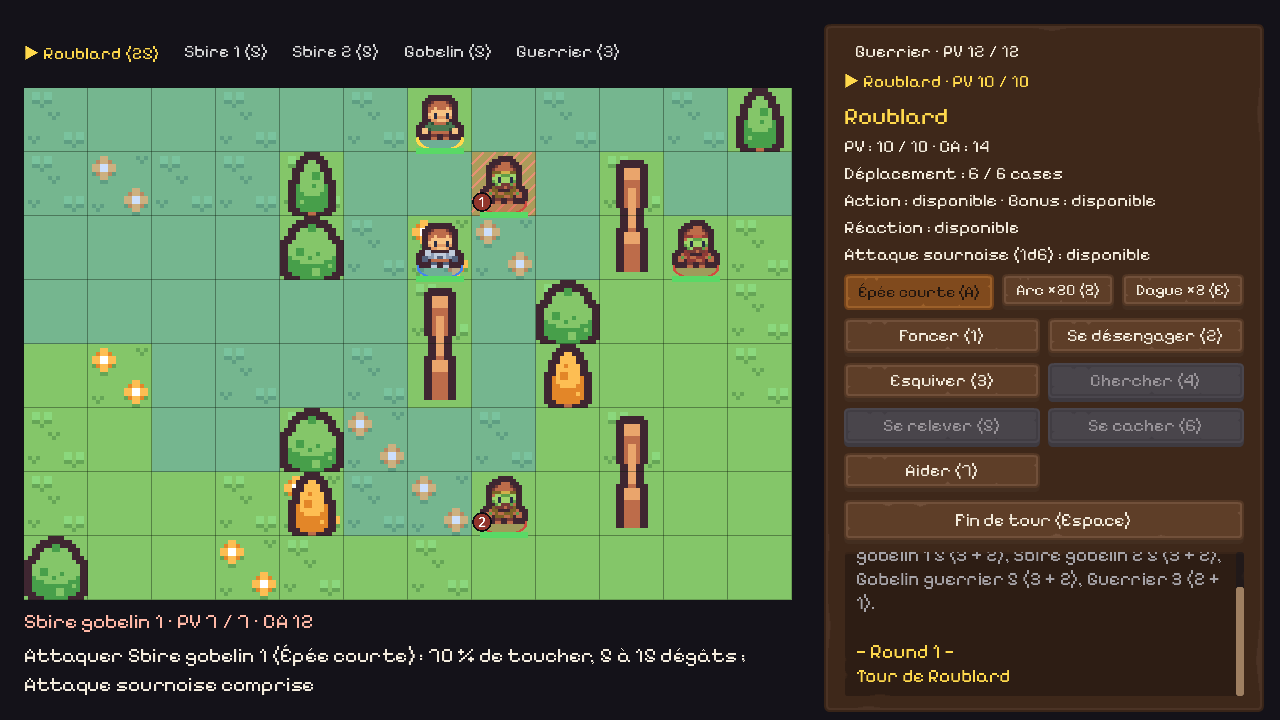
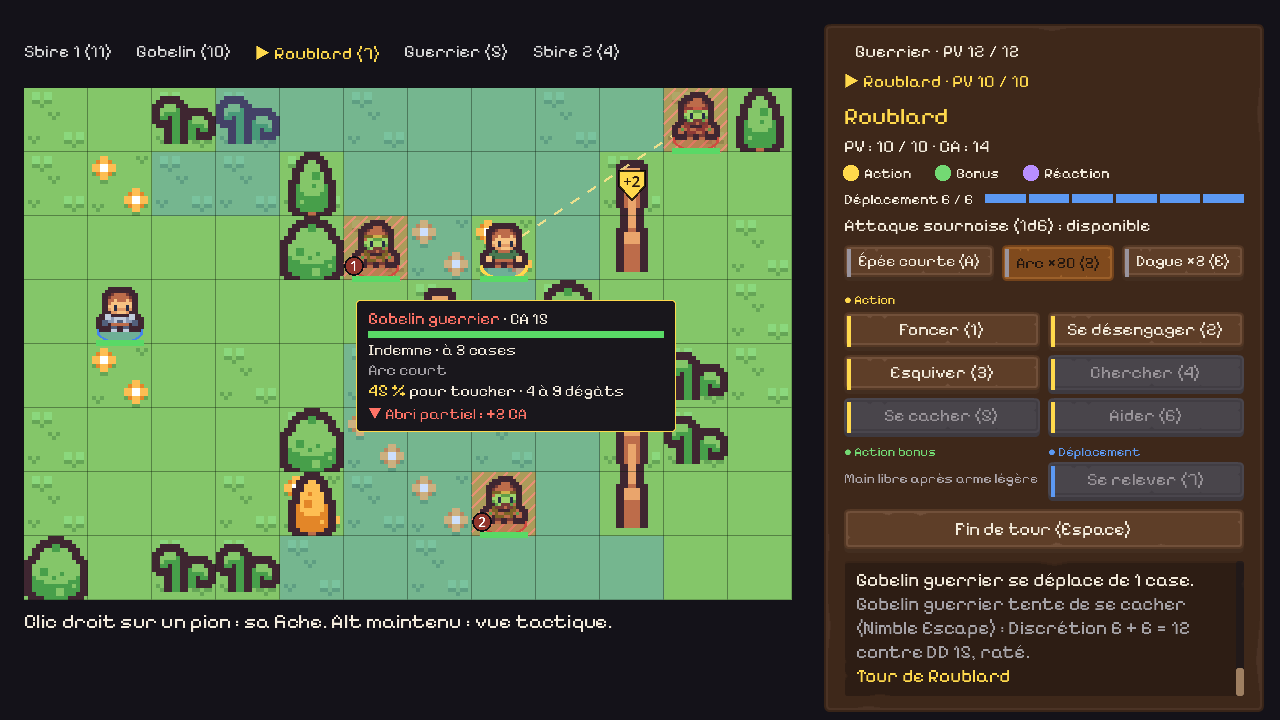
I5 : ramper, finitions et version 1.4.0
- Ramper (SRD « Crawling », « Prone ») : à terre, on se déplace en
  rampant, 2 cases par case, 3 en terrain difficile ; l'écart « Ramper »
  est retiré de docs/rules-deviations.md.
- Ligne d'aide : rappel des gestes (clic droit, Alt) pendant son tour ;
  le message du tour adverse n'est plus effacé par un survol.
- Bulle et fiche : largeur du texte connue d'avance, la hauteur suit le
  contenu dès l'ouverture (la bulle s'étirait en 1280×720).
- README : interface du combat, ramper, touches, option « PV ennemis
  exacts », nouvelles captures (visée, actions, vue tactique, fiche).
- Version 1.4.0.

Claude-Session: https://claude.ai/code/session_01FhoZrrPLkexN6g1BZVi47J

diff --git a/docs/rules-deviations.md b/docs/rules-deviations.md
@@ -24,7 +24,6 @@ Toute simplification volontaire des règles est consignée ici, avec la règle o
 | Perception passive | Le MJ s'en sert pour savoir si une créature remarque quelque chose sans chercher (10 + bonus de Perception, +5 avec l'avantage, -5 avec le désavantage). Le texte de Se cacher ne la mentionne pas. | Règle de MJ : un caché qui se déplace est remarqué sur la première case vue par un ennemi conscient dont la Perception passive atteint le total de sa Discrétion ; la suite de son trajet est vue. Aucun effet du jeu ne donne l'avantage ou le désavantage en Perception. La Perception passive du Guerrier (13) n'atteint jamais une cachette réussie (15 au moins) ; celle du Roublard (15) remarque les cachettes les moins bonnes. | S3, revu après S6 |
 | Attaquer une case à l'aveugle | On peut viser n'importe quel endroit ; si la cible n'y est pas, l'attaque rate. | Possible seulement quand un ennemi est caché : clic sur sa dernière position connue, ou Maj + clic sur une case. Avec les règles de MJ ci-dessus, un caché n'est jamais en vue au tour de ses ennemis : l'attaque à l'aveugle servira avec le brouillard ou les abris partiels. | S3 |
 | Heurter un ennemi caché | On ne peut pas traverser l'espace d'une créature hostile de même taille, ni finir son déplacement dans celui d'une autre créature. Rien ne dit ce qui arrive quand on entre sans le savoir dans l'espace d'une créature cachée. | Règle de MJ : les chemins ignorent la case d'un ennemi caché (on ne sait pas qu'il y est). Y entrer le heurte : le déplacement s'arrête sur la case d'avant, sans dépenser ce pas, et il est trouvé. | S3, revu après S6 |
-| Ramper | À terre, on peut ramper (chaque mètre coûte le double) ou se relever pour la moitié de sa vitesse. | Pas de reptation : à terre, il faut se relever (action Se relever) avant de se déplacer. | S3 |
 | Inconscient : lâcher ce qu'on tient | « you drop whatever you're holding » | Le Guerrier garde ses armes à la main en reprenant connaissance. | S3 |
 | Assommer plutôt que tuer | Une attaque au corps à corps qui ferait tomber à 0 PV peut laisser la cible à 1 PV, inconsciente. | Pas proposé : le Gobelin à 0 PV meurt. | S3 |
 | Personnage stabilisé | Stabilisé, on reste inconscient à 0 PV sans jet contre la mort ; on regagne 1 PV au bout de 1d4 heures. | Un stabilisé n'est plus en lice : défaite quand tous les personnages sont morts ou stabilisés. Un mourant y est encore, ses jets contre la mort pouvant le relever. | S3, E0 |
